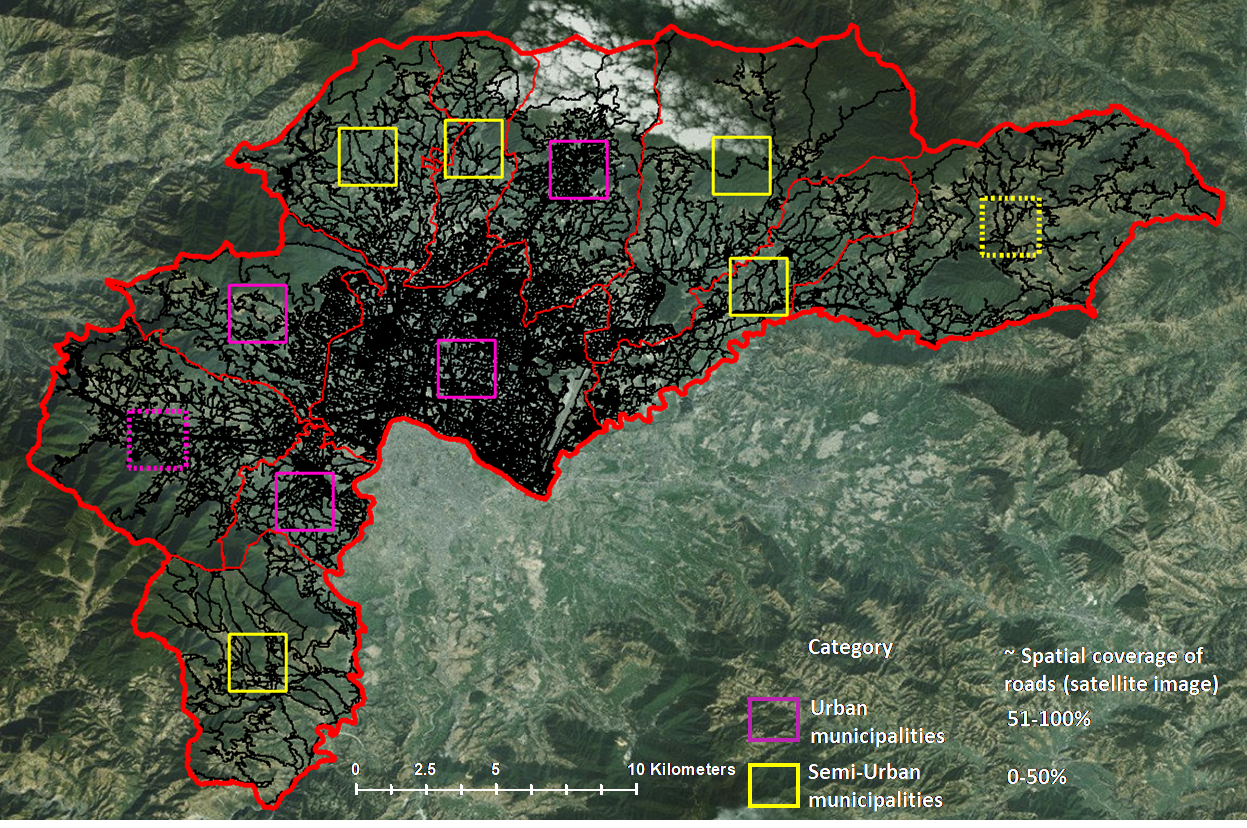
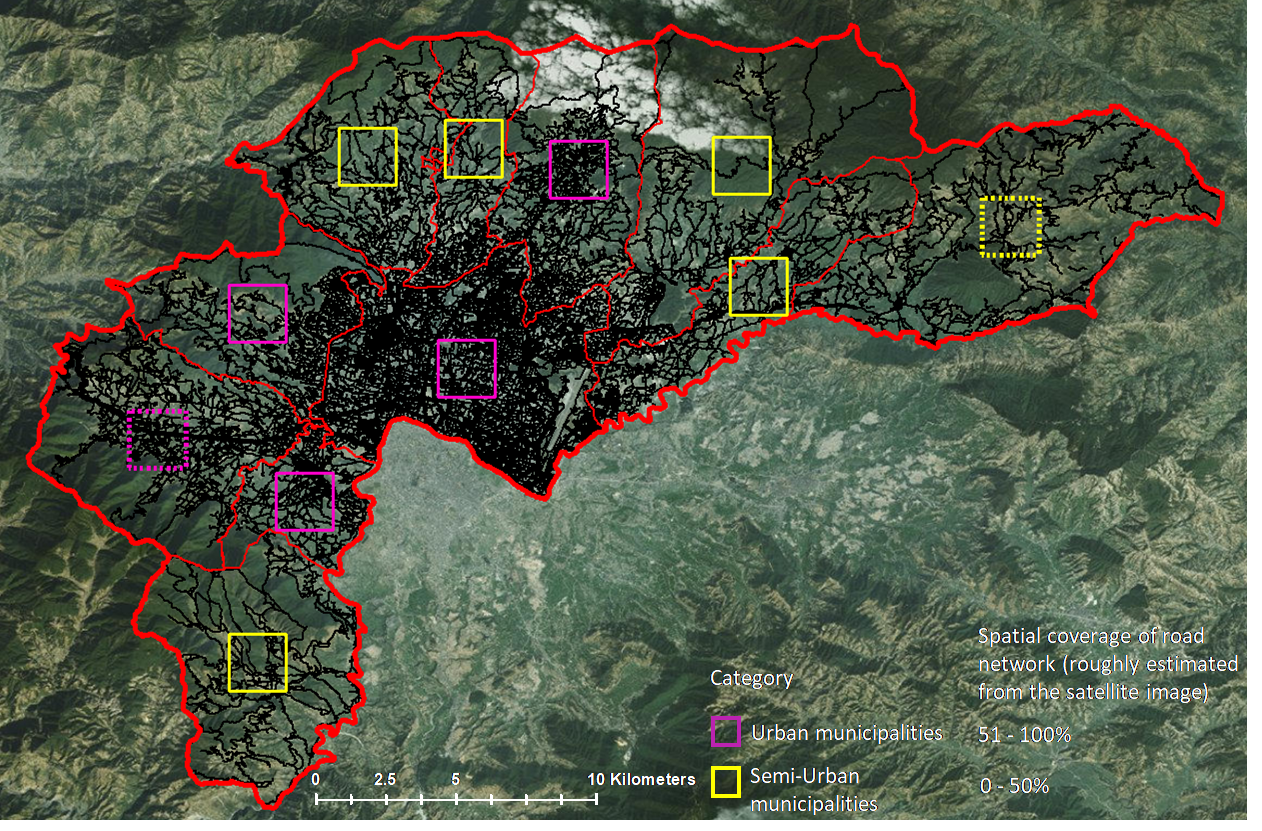
updating the quality assessment

diff --git a/README.md b/README.md
@@ -249,17 +249,19 @@ The positional accuracy is described as the position of a feature on a map relat
 
 **Assessment of Accra's OSM**
 
-A systematic visual inspection was carried out so as to assess both the positional accuracy and the completeness of the current OSM datasets covering the GAMA. This was accomplished by placing a 2km by 2km grid at the geometrical centre of each district (Fig.). From our observations, these grids provide a good cross-section of the street network across GAMA, from the high population density district of Accra metropolitan to the low population density of Shai Osudoku. We classified the districts into three, namely (1) urban district, (2) semi-urban district and (3) rural districts. This classification is based on whether the road infrastructures (roughly estimated from the satellite image) have spatial coverage between 51-100%, 25-50%, or 0-25% of their respective district. In other words, we use road infrastructure as a proxy for urbanisation. These are colored in pink, yellow and blue grids, respectively. The urban districts, such as Ga Central Municipal and Accra Metropolis, are characterised by very dense street networks, while the semi-urban districts such as Ga West Municipal and Ga South Municipal districs, do also contain dense street network, but around the areas that are adjacent to urban districts. The four eastern-most districts contained the least road coverage, which include only trunk roads connect GAMA to the other regions of the country.
+A systematic visual inspection was carried out so as to assess both the positional accuracy and the completeness of the current OSM datasets covering the GAMA. This was accomplished by placing a 2km by 2km grid at the geometrical centre of each district (Fig.). From our observations, these grids provide a good cross-section of the street network across GAMA, from the high population density district of Accra metropolis to the low population density of Shai Osudoku. We classified the districts into three, namely (1) urban (2) semi-urban and (3) rural districts. This classification is based on the spatial extent of the road network across each district, roughly estimated from the satellite image. Thus, we have 51-100%, 25-50%, and 0-25% coverages classified as urban, semi-urban and rural districts, respectively. In other words, we use road infrastructure as a proxy for urbanisation (Fig. xx).
 
-<img src="fig/quality grid_osm_accra.png" alt="The OSM map of GAMA, with 2km x 2km grids placed at the geometrical centre of each district." width="100%" />
+Like many urban districts which comprise very dense street networks, the semi-urban districts such as Ga West Municipal and Ga South Municipal districs, do also contain dense street network, within certain areas that are adjacent to the urban districts. The four eastern-most districts, classified as 'rural', largely consist of trunk roads connecting GAMA to the other regions of the country.
+
+<img src="fig/quality grid_osm_accra.png" alt="The OSM map of GAMA, with 2km x 2km grids placed at the centre of each district." width="100%" />
 <p class="caption">
-The OSM map of GAMA, with 2km x 2km grids placed at the geometrical centre of each district.
+The OSM map of GAMA, with 2km x 2km grids placed at the centre of each district.
 </p>
 
 <!-- The pink grids represent the centres of Ga Central Municipal and Accra Metropolis district (from left to right) – the two highly urbanised districts). The blue grids represent the centres of Ga West Municipal and Ashaiman Municipal districts (from left to right) – two moderately urbanised districts. -->
-The visual inspection of all the urban districts revealed very high positional accuracy and completeness of the OSM datasets. The road segments are well-aligned and properly contained within the width of their respective raster representation. However, there are significant examples of uncaptured segments, particularly in areas where the roads are 'unpaved'. For example, in fig xx(a) represents the Accra Metropolis district, the large oval shape highlights the Campus of Accra Technology University College, whose roads are unpaved and generally missing in the OSM datasets.
+The visual inspection of all the urban districts revealed very high positional accuracy and completeness of the OSM datasets. The road segments are well-aligned and properly contained within the width of their respective raster representation. However, a significant number of unpaved streets are uncaptured. For example, in fig xx(a) showing the 2km x 2km grid at the centre of the Accra Metropolis district, the large oval shape highlights the Campus of Accra Technology University College, whose roads are unpaved and are generally missing in the OSM datasets.
 
-Fig xx(b) shows the 2km by 2km grid placed at the Ga West Municipal, a semi-urban district. This district is characterised by a highly densed OSM dataset coverage in the south and a very sparse OSM dataset coverage in the north. The 2km by 2km grid drawn covers a portion of the district with a relatively small OSM data capture. Similar positional accuracy as the rest of the region is observed. any other district. However, the fact that over 90% of the road network here are unpaved and are missing in the OSM dataset (oval shapes), further highlights the general patterns of lack of coverages for this type of roads.
+Fig xx(b) is the 2km by 2km grid at the Ga West Municipal, a semi-urban district. Generally, the district is characterised by a highly densed OSM coverage in the southern part and a very sparse OSM coverage in the northern part. The 2km by 2km grid only covers a relatively small OSM data captured. Similar positional accuracy as the rest of the region can be observed. However, the fact that over 90% of the road network are unpaved, explains the relatively large number of missing OSM network in this district. These missing datasets are highlighted by the oval shapes.
 
 <div class="figure">
 <img src="fig/quality assessment_osm_accra.png" alt=" (a) Accra Metropolis district - an urban district and (b) Ga West Municipal district - a semi-urban district. The oval shapes indicate areas where streets are missing." width="100%" />
@@ -268,17 +270,19 @@ Fig xx(b) shows the 2km by 2km grid placed at the Ga West Municipal, a semi-urba
     </p>
     </div>
 
-In general, the "completeness" of OSM data across GAMA varies by road classes, from trunk roads (major road) having the highest coverage level, to an almost uncovered footpaths, with paved/unpaved ratios also decreasing in the same order.
+Generally, the positional accuracy of the OSM dataset is similar for all road classes. However, the "completeness" appears to vary by road classes, from trunk roads (major road) having the highest completeness level, to the residential (unpaved) with the lowest completeness level.
 
 **Assessment of Kathmandu's OSM datasets**
 
 ### Assessing the quality of OpenStreetMap of Kathmandu
 
-Kathmandu is very well represented on OpenStreetMap, thanks to a number of projects by the Kathmandu Living Labs (KLL) organisation <!-- link to KLL website-->. KLL has not only informed residents about the importance of having accurate and freely available spatial data, and how these can help improve interactions between the local governing authorities and citizens, but also arranged training workshops to educate them in how to map their environments accurately, which by 2015 had been provided to over 1,400 people. In addition to this, they have had a specific project which involved mapping schools and hospitals in the area. Their webiste states that their initiative has resulted in the mapping of 2,054,436 buildings and 135,063 kilometers of roads.
+Kathmandu is very well represented on OpenStreetMap, thanks to a number of projects by the Kathmandu Living Labs (KLL) organisation <!-- link to KLL website-->. KLL has not only informed residents about the importance of having accurate and freely available spatial data, and how these can help improve interactions between the local governing authorities and citizens, but also arranged training workshops to educate them on how to map their environments accurately, which by 2015 had been provided to over 1,400 people. In addition to this, they have had a specific project which involved mapping schools and hospitals in the area. Their website states that their initiative has resulted in the mapping of 2,054,436 buildings and 135,063 kilometers of roads.
 
-<img src="fig/quality grid_osm_kathmandu.png" alt="The OSM map of Kathmandu, with 2km x 2km grids placed at the geometrical centre of each district." width="100%" />
+The Kathmandu study area is approximately 8 times smaller than accra study area.
+
+<img src="fig/quality grid_osm_kathmandu.png" alt="The OSM map of Kathmandu, with 2km x 2km grids placed at the centre of each district." width="100%" />
 <p class="caption">
-The OSM map of Kathmandu, with 2km x 2km grids placed at the geometrical centre of each district.
+The OSM map of Kathmandu, with 2km x 2km grids placed at the centre of each district.
 </p>
 
 To discuss here (~ size of kathmandu relative to accra?).
@@ -295,9 +299,9 @@ To discuss here (Incredible positional accuracy and completeness for both urban 
 ### Assessing the quality of OpenStreetMap of Bristol
 
 <div class="figure">
-<img src="fig/quality grid_osm_bristol_2.png" alt="(a) The OSM map of Bristol, with 2km x 2km grids placed at the geometrical centre of each administrative ward, and (b) the 2km x 2km grid at the centre of Bishopston administrative ward" width="100%" />
+<img src="fig/quality grid_osm_bristol.png" alt="(a) The OSM map of Bristol, with 2km x 2km grids placed at the centre of each administrative ward, and (b) the 2km x 2km grid at the centre of Bishopston administrative ward" width="100%" />
 <p class="caption">
-1.  The OSM map of Bristol, with 2km x 2km grids placed at the geometrical centre of each administrative ward, and (b) the 2km x 2km grid at the centre of Bishopston administrative ward
+1.  The OSM map of Bristol, with 2km x 2km grids placed at the centre of each administrative ward, and (b) the 2km x 2km grid at the centre of Bishopston administrative ward
     </p>
     </div>
 
